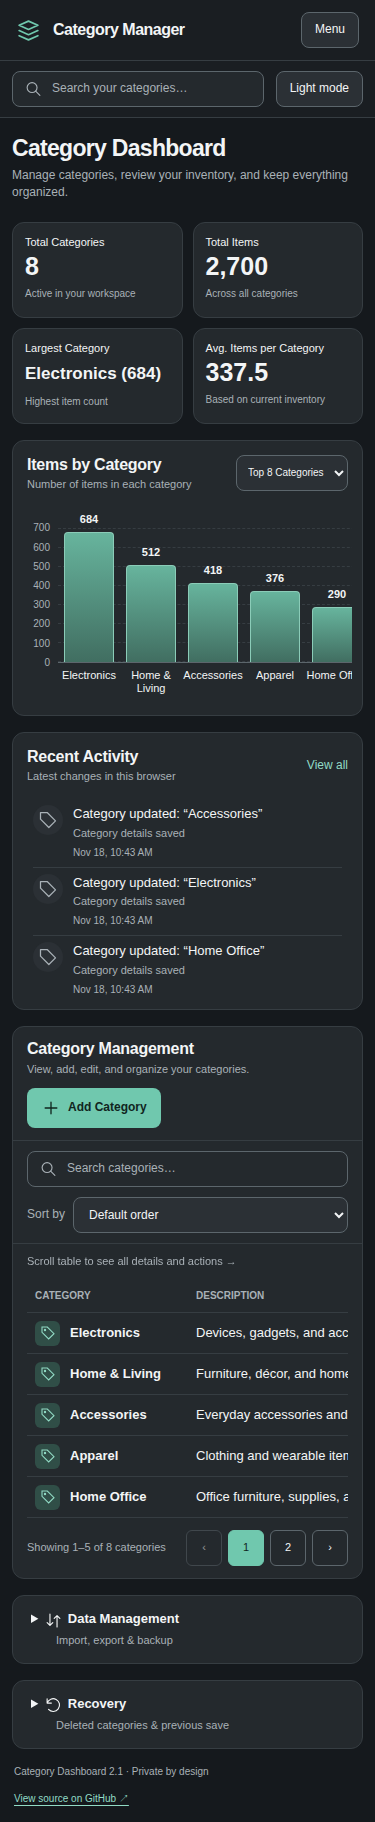
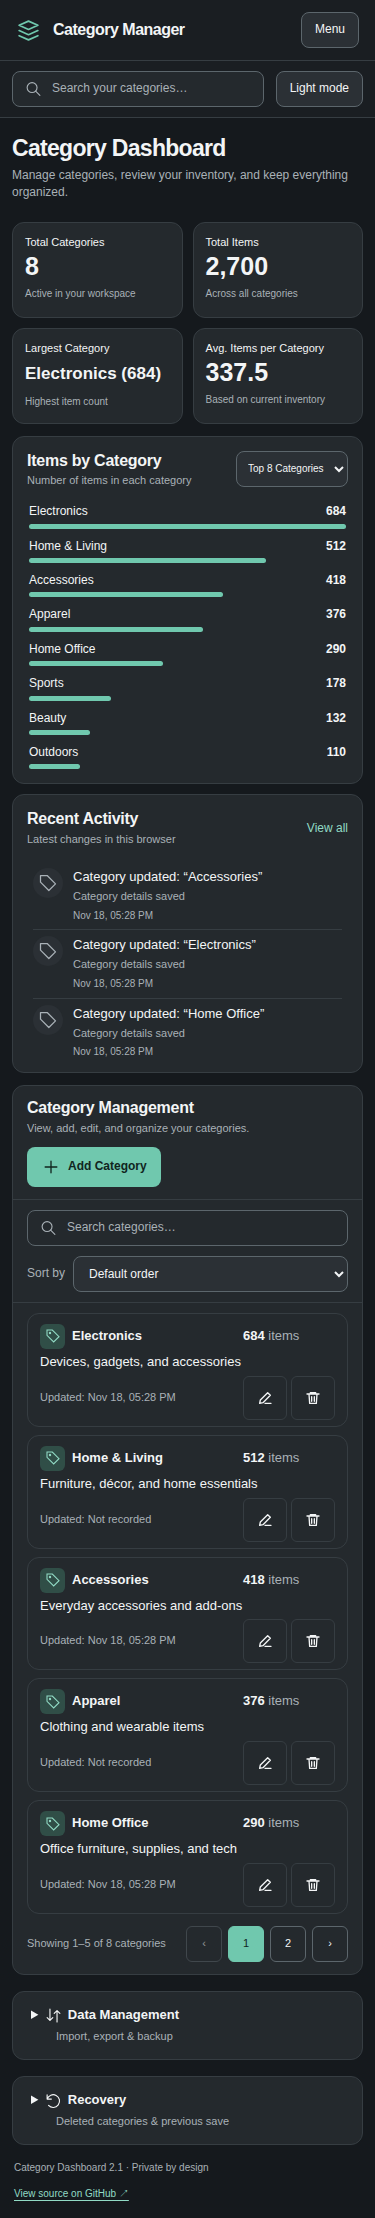
Refresh mobile and desktop review screenshots after final polish

diff --git a/docs/VISUAL-REVIEW-v2.1.md b/docs/VISUAL-REVIEW-v2.1.md
@@ -24,7 +24,7 @@ These are browser captures of the implemented application, not generated mockups
 
 The implementation follows the reference's 240 px sidebar, compact 64 px header, four-card statistics row, approximately 1.6:1 chart/activity split, graphite surfaces, restrained mint controls, outline icons, and wide category table.
 
-The first browser captures were inspected at desktop and mobile sizes. Review identified overly tall table rows, undersized chart labels, non-rounded chart ticks, and a screenshot scroll-position artifact after accessibility scanning. The second iteration reduced row padding, strengthened section headings, increased chart label/plot sizing, introduced readable tick intervals and a restrained teal bar treatment, and normalized capture position. Mobile activity timestamps wrap below the event text, and the table includes a horizontal-scroll hint. A further review corrected clipping above the tallest bar, expanded chart-label room, and tightened activity rows. Browser checks also found and corrected activity-region keyboard scrolling, an asynchronous editor-save race, and reverse keyboard traversal in the editor.
+The first browser captures were inspected at desktop and mobile sizes. Review identified overly tall table rows, undersized chart labels, non-rounded chart ticks, and a screenshot scroll-position artifact after accessibility scanning. The second iteration reduced row padding, strengthened section headings, increased chart label/plot sizing, introduced readable tick intervals and a restrained teal bar treatment, and normalized capture position. Mobile activity timestamps wrap below the event text, and the initial mobile table included a horizontal-scroll hint. A further review corrected clipping above the tallest bar, expanded chart-label room, and tightened activity rows. Browser checks also found and corrected activity-region keyboard scrolling, an asynchronous editor-save race, and reverse keyboard traversal in the editor.
 
 Functional differences from the illustration are intentional:
 
@@ -35,7 +35,7 @@ Functional differences from the illustration are intentional:
 | Growth percentages and date filter | Current totals, largest category, average; no invented time series |
 | Historical update dates | Recorded timestamps for matching category snapshots; otherwise “Not recorded” |
 | Fictional recent events | Actions successfully performed in this browser after upgrading |
-| Large desktop table | Same semantic table with internal horizontal scrolling on small screens |
+| Large desktop table | Below 600 px each row becomes a card with the item count and 44 px Edit/Delete controls in view |
 
 The layout is closely reference-led, not a claim of pixel identity: real category names, browser typography, accurate metrics and required data tools affect the result.
 

diff --git a/README.md b/README.md
@@ -107,8 +107,8 @@ Open `http://127.0.0.1:8080` in a separate browser profile for an isolated revie
 
 - Compact graphite and mint layout based on the approved reference.
 - Four actual statistics, including average items per category (one decimal place).
-- Vertical chart with Top 8 / All Categories controls; horizontal scrolling stays inside the chart on narrow screens.
-- Semantic category table, five-row pagination, synchronized header/table search, and sorting.
+- The Top 8 / All Categories chart uses vertical bars on desktop and labeled horizontal bars below 600 px.
+- Semantic category table with compact mobile cards, five-row pagination, synchronized header/table search, and sorting.
 - Native modal editor with keyboard focus containment, Escape cancellation and focus restoration.
 - Collapsible data management and recovery panels, accessible from the sidebar.
 - Genuine local activity, starting with actions taken in 2.1. No historical growth or fictional accounts.
